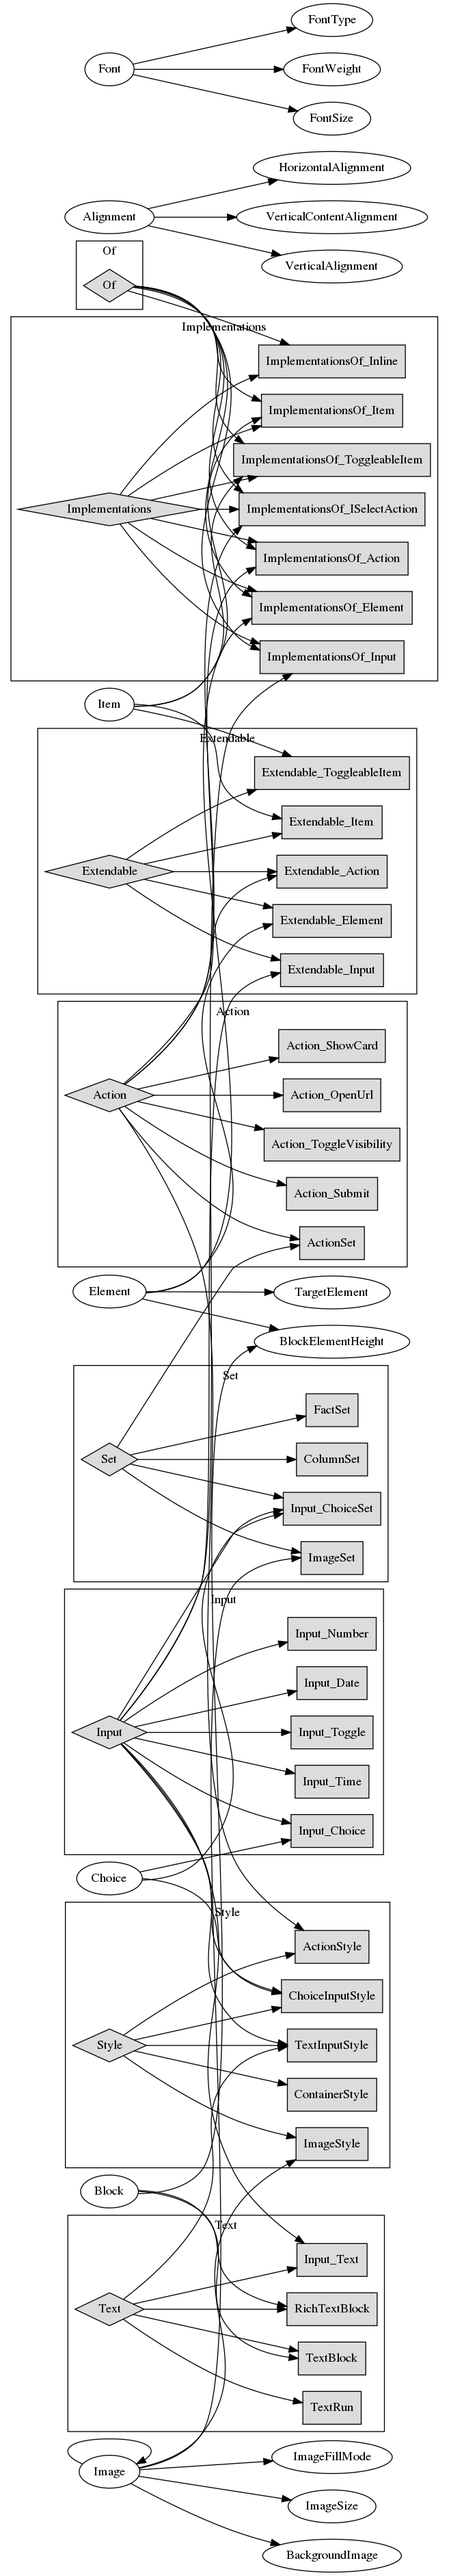
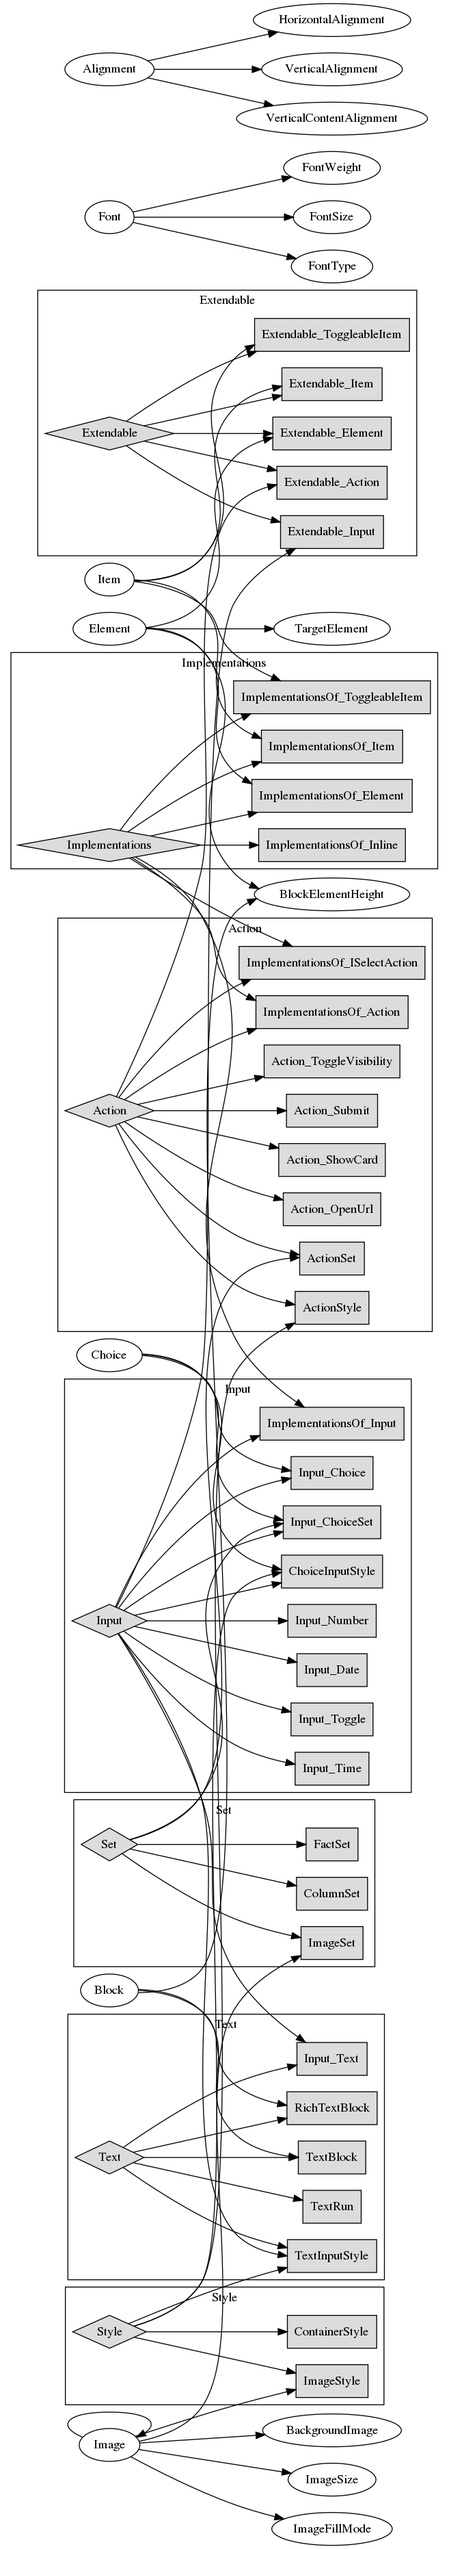
removed stem 'of' with 'stopwords'

diff --git a/sketches/botbuilder_schema_analysis/analyze.py b/sketches/botbuilder_schema_analysis/analyze.py
@@ -29,6 +29,11 @@ NodePredicate = Callable[[NodeID,'Graph'],bool]
 # minimum degree to make a node achieve a higher relevance status
 relevance_degree = 5
 
+stopwords: Set[str] = {
+    'of',
+    'and'
+}
+
 class Node:
   N: Neighborhood
   attrs: Attributes
@@ -121,7 +126,8 @@ class JsonGraph(Graph):
     for k in self.data.keys():
       stems += stem_re.findall(k)
     self.stems = list(set(filter(
-      lambda s: self.json_text.count(s) > relevance_degree,
+      lambda s: self.json_text.count(s) > relevance_degree and
+                s.lower() not in stopwords,
       stems)))
 
   def build_graph(self) -> None:
